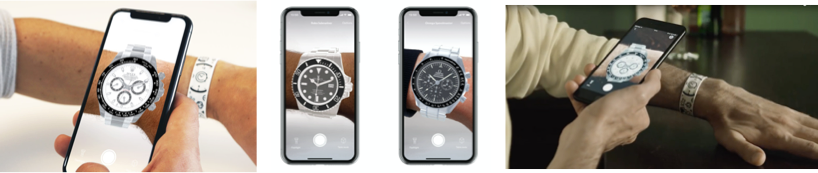
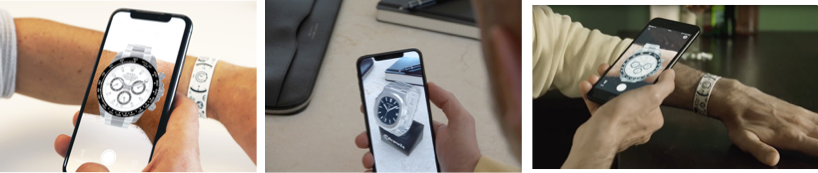
change img's chrono card

diff --git a/index.html b/index.html
@@ -103,7 +103,7 @@
                                 </div>
                                 <div>
                                     <div>
-                                        <h4 class="modal-about--subtitle">Live in movement</h4>
+                                        <h4 class="modal-about--subtitle">Life in movement</h4>
                                         <p class="about-text">That's how I conceive it. A yearning to learn and explore
                                             made me discover a great diversity of people and to work in different
                                             professional environments: startups, medium to big-sized enterprises, and as
@@ -518,8 +518,7 @@
                                 <div class="modal-container--content">
                                     <div>
                                         <h4 class="modal-about--subtitle">Main Goal</h4>
-                                        <p class="about-text">Identify new opportunities that makes the baby
-                                            boomer generation happier in the digitale age.</p>
+                                        <p class="about-text">Identify new opportunities that make the baby boomer generation happier in the digitale age.</p>
                                     </div>
                                     <div>
                                         <h4 class="modal-about--subtitle">The problem</h4>
@@ -545,7 +544,7 @@
                                                 <h4 class="modal-about--subtitle">The Solution</h4>
                                             </div>
                                             <div>
-                                                <p class="expertise-text">Senda is a digital platform that lets seniors enjoy life by connecting and sharing. The platform not only features personalized audiovisual (AV) content but also support for users to create their own content. Senda provide the user assistance on becoming a Vlogger and guide them on the path that will let them play an active part in today's Digital Society.</p>
+                                                <p class="expertise-text">Senda is a digital platform that lets seniors enjoy life by connecting and sharing. The platform not only features personalized audiovisual (AV) content but also support for users to create their own content. Senda provides the user assistance on becoming a Vlogger and guides them on the path that will let them play an active part in today's Digital Society.</p>
                                             </div>                      
                                         </div>
                                         <div class="down">
@@ -656,7 +655,7 @@
                                     <div class="ctr">
                                         <a class="modal-btn"
                                             href="https://blog.prototypr.io/ux-case-study-designing-an-app-for-seniors-ed2836046f5e"
-                                            target="_blank">View Case Study</a>
+                                            target="_blank">View the Case Study</a>
                                     </div>
                                 </div>
                             </div>
@@ -715,7 +714,7 @@
                                 <div class="modal-container--content down">
                                     <div>
                                         <h4 class="modal-about--subtitle">The Team</h4>
-                                        <p class="about-text">A team of 6 people with diverse backgrounds, experiences, and perspectives (graphic design, UX/UI, digital marketing, front-end development).</p>
+                                        <p class="about-text">A team of 6 people with diverse backgrounds, experiences, and perspectives (graphic design, UX/UI, digital marketing, frontend development).</p>
                                     </div>
                                      <div>
                                         <h4 class="modal-about--subtitle">My Role</h4>
@@ -728,7 +727,7 @@
                                     </div>
                                     <div class="down">
                                         <h4 class="modal-about--subtitle">The Solution</h4>
-                                        <p class="about-text">We decided to create the Uxer Pack, to capture the most emotional moments that a student experiences during a course. The Uxer Pack is a package with products and/or services that the student gets at specific emotionally significant moments for them.</p>
+                                        <p class="about-text">We decided to create the "Uxer Pack", to capture the most emotional moments that a student experiences during a course. The Uxer Pack is a package with products and/or services that the student gets at specific emotionally significant moments for them.</p>
                                     </div>
                                     <div class="ctr">
                                          <a class="modal-btn"
@@ -760,7 +759,7 @@
                                     </div>
                                 </div>
                             </div>
-                            <div class="section-b">
+                            <div class="section-w">
                                 <div class="modal-wrap">
                                     <div class="modal-container--content">
                                         <div class="down">
@@ -768,8 +767,8 @@
                                             <p class="expertise-text">The Virtual Showroom from Chrono24 is a new and revolutionary watch-shopping experience.</p>
                                             <p class="expertise-text top">Chrono24, the world’s biggest specialist secondary market platform for luxury watches, has developed a feature that lets the users try on watches using virtual reality technology on their smartphones.</p>
                                         </div>
-                                        <div class=" down ctr">
-                                            <img src="img/c24-tutorial.png" alt="chrono24 virtual showroon tutorial" class="img">
+                                        <div class="ctr">
+                                            <img src="img/c24-screens.png" alt="Chrono24 Virtual Showroom screens">
                                         </div>
                                     </div>
                                 </div>
@@ -780,13 +779,17 @@
                                     <div class="modal-container--content down">
                                         <div class="down">
                                             <h4 class="modal-about--subtitle">How does it work?</h4>
-                                            <p class="expertise-text">For customers to try on virtual watches, they need to download the Chrono24 app where there is an option to print out a tracking bracelet that is worn on the wrist.</p>
-                                            <p class="expertise-text top">The markings on the bracelet allow the software to place the watch in the right position, after which the iPhone‘s camera is pointed at the bracelet and a selected watch appears.</p>
-                                            <p class="expertise-text top">By moving the camera, it shows the watch from different angles including the band and clasp.</p>
-                                            <p class="expertise-text top">Watches can be seen on the wrist or on a flat surface where they can be flipped over to look at the back.</p>
+                                            <p class="expertise-text">Download the Chrono24 app</p>
+                                            <p class="expertise-text">Download the PDF file with the instructions.</p>
+                                            <p class="expertise-text">Cut out the bracelet below along the dotted line.</p>
+                                            <p class="expertise-text">Put the bracelet on your wrist.</p>
+                                            <p class="expertise-text">Open the Virtual Showroom in the Chrono24
+                                            app and select a model.</p>
+                                            <p class="expertise-text">Move the camera to see the watch from different angles including the band and clasp.</p>
+                                            <p class="expertise-text">You can see watches on your wrist or on a flat surface where they can be flipped over to look at the back.</p>
                                         </div>
                                         <div class="ctr">
-                                            <img src="img/C24-handout.png" alt="Chrono24 Virtual Showroom App - How does it work" class="img">
+                                            <img src="img/c24-tutorial.png" alt="Chrono24 Virtual Showroom App - How does it work" class="img">
                                         </div>
                                     </div>
                                 </div>
@@ -794,7 +797,7 @@
                             <!--goal-->
                             <div class="modal-wrap">
                                 <div class="modal-container--content down">
-                                    <div>
+                                    <div class="down">
                                         <h4 class="modal-title ctr">Goal</h4>
                                         <p class="about-text">Localizing the User Experience: Adapting the app to specific markets, taking into account cultural and linguistic differences in order to provide the best possible experience and boost convertion rates.</p>
                                     </div>
